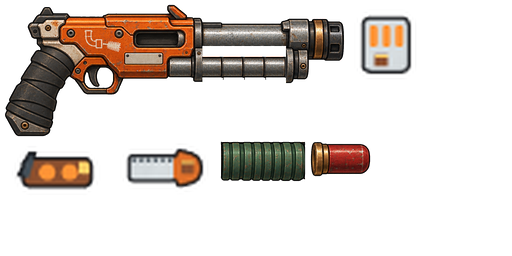
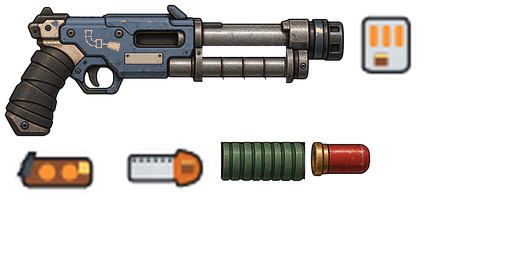
Recolour the Boom Broom's receiver to graphite
The painted receiver's maintenance orange vanished into Dave's
burnt-orange jacket in play. The importer gains a generic recolor step
(hue range, target hue, saturation and value scale per part) and the
Boom Broom's body uses it, so a re-import keeps the change; the upgrade
parts keep their orange as accents. The brief records the change.

diff --git a/game/tools/art/import_parts_sheet.py b/game/tools/art/import_parts_sheet.py
@@ -705,8 +705,8 @@ SHEETS = {
     # px from the grip (33 in game at ART_SCALE 0.9), so the gun is ~43 px long, not the stocked
     # placeholder's ~57. The sheet has no upgrade parts: `keep` carries the placeholder's
     # ext_tube, heat_collar and twin_pod over (painted at 3 texels per world px) onto the tube's
-    # front bracket, the bare barrel and the receiver's top. The HUD icon still comes from the
-    # placeholder (paint_boom_broom.py write_icons()).
+    # front bracket, the bare barrel and the receiver's top. The HUD icon is the
+    # painted one (import_hd_ui.py, from the l2-hud sheet).
     "boom_broom_hd": {
         "out": "boom_broom",
         "builder": "assembly",
@@ -727,6 +727,10 @@ SHEETS = {
             "pump": {"at": (1000, 640), "box": (886, 546, 1252, 722), "pivot": (888, 632)},
             "shell": {"at": (1200, 190), "pivot": (1197, 189)},
         },
+        # The receiver's maintenance orange sat on Dave's orange jacket and the gun vanished
+        # into him: its orange becomes graphite blue (the barrel stays steel, the upgrade parts
+        # keep their orange as accents). 2026-10-13.
+        "recolor": {"body": {"hue": (6, 48), "min_sat": 0.45, "to_hue": 212, "sat": 0.30, "val": 0.60}},
         "joints": [
             {"name": "body", "part": "body", "parent": "", "place": (222, 685), "z": 1, "mass": 3.0, "role": "frame"},
             {"name": "shell", "part": "shell", "parent": "body", "place": (700, 512), "z": 0, "mass": 0.05, "role": "shell"},
@@ -2589,6 +2593,41 @@ def assembly_part(sheet, src, lab, pc):
     return fitted, piv, fwd, fmasks
 
 
+def recolor(rgb, alpha, rc):
+    """`rgb` (floats 0..1, H x W x 3) with the pixels whose hue lies in `rc["hue"]` (degrees,
+    (lo, hi)) and whose saturation is at least `rc["min_sat"]` moved to hue `rc["to_hue"]`, their
+    saturation and value scaled by `rc["sat"]` and `rc["val"]`. The shading, the scratches and
+    the edges stay (only the colour moves). Used where a painted colour has to change after
+    the fact (an `assembly` entry's `recolor`: {part: rc}), so a re-import keeps the change."""
+    r, g, b = rgb[..., 0], rgb[..., 1], rgb[..., 2]
+    mx = rgb.max(-1)
+    mn = rgb.min(-1)
+    d = mx - mn
+    sat = np.where(mx > 1e-5, d / np.maximum(mx, 1e-5), 0.0)
+    h = np.zeros_like(mx)
+    dd = np.maximum(d, 1e-5)
+    h = np.where(mx == r, ((g - b) / dd) % 6.0, h)
+    h = np.where(mx == g, (b - r) / dd + 2.0, h)
+    h = np.where(mx == b, (r - g) / dd + 4.0, h)
+    h = np.where(d > 1e-5, h * 60.0, 0.0)
+    lo, hi = rc["hue"]
+    m = (h >= lo) & (h <= hi) & (sat >= rc.get("min_sat", 0.4)) & (alpha > 0.0)
+    nh = np.where(m, rc["to_hue"], h) / 60.0
+    ns = np.where(m, np.clip(sat * rc.get("sat", 1.0), 0.0, 1.0), sat)
+    nv = np.where(m, np.clip(mx * rc.get("val", 1.0), 0.0, 1.0), mx)
+    # HSV -> RGB
+    c = nv * ns
+    x = c * (1.0 - np.abs(nh % 2.0 - 1.0))
+    mm = nv - c
+    i = np.floor(nh).astype(int) % 6
+    zero = np.zeros_like(c)
+    rr = np.choose(i, [c, x, zero, zero, x, c])
+    gg = np.choose(i, [x, c, c, x, zero, zero])
+    bb = np.choose(i, [zero, zero, x, c, c, x])
+    out = np.stack([rr + mm, gg + mm, bb + mm], -1)
+    return np.where(m[..., None], out, rgb)
+
+
 def build_assembly(name, cfg):
     """A jointed assembly from a smooth (hand-painted HD) sheet: the Level 2 rigs (C61), a
     machine (the M02 drone), a prop (the EG01 pistol, the W02 Boom Broom) or a quadruped (the
@@ -2634,6 +2673,9 @@ def build_assembly(name, cfg):
         if "emit" in masks:
             em = resize(np.repeat(masks["emit"][..., None], 3, -1), res["alpha"].shape[::-1])[..., 0] > 0.5
             res["spec"][em & (res["alpha"] > 0.5), 2] = float(pc.get("emit_strength", 1.0))
+        rc = cfg.get("recolor", {}).get(pname)
+        if rc:
+            res["rgb"] = recolor(res["rgb"], res["alpha"], rc)
         results[pname] = res
     keep = cfg.get("keep")
     kept_joints = []

diff --git a/art-design/weapons/w02-boom-broom.md b/art-design/weapons/w02-boom-broom.md
@@ -29,7 +29,7 @@ The upper barrel is a reclaimed length of galvanized coolant-pipe casing with a 
 
 ## Color and materials
 
-Maintenance orange #E0702A; galvanized pipe gray #AEB9BF; coolant green #3E9E7E; dark steel #444F58; shell red #C8503C; brass rims #C9A24D. Upgrade accents: ember orange #FF9436 for heat glows, pale ceramic gray #D6DCDF for the heat collar, heat-scorched bronze #8C4F2E for the insulated receiver panel, and thin microchip-gold #FFD166 contact edges on modules. Wear is concentrated on the muzzle collar, pump edges and stock pad.
+**In the game (2026-10-13) the receiver is graphite blue-grey, not orange:** in play the orange receiver vanished into Dave's burnt-orange jacket, so `import_parts_sheet.py`'s `recolor` shifts the painted receiver's orange to graphite (hue 212, a third of the saturation, 60% brightness) and keeps the shading; the upgrade parts keep the orange as accents. Palette as first briefed: maintenance orange #E0702A; galvanized pipe gray #AEB9BF; coolant green #3E9E7E; dark steel #444F58; shell red #C8503C; brass rims #C9A24D. Upgrade accents: ember orange #FF9436 for heat glows, pale ceramic gray #D6DCDF for the heat collar, heat-scorched bronze #8C4F2E for the insulated receiver panel, and thin microchip-gold #FFD166 contact edges on modules. Wear is concentrated on the muzzle collar, pump edges and stock pad.
 
 Dark-scene readability: the pale barrel and the coolant-green pump carry the silhouette against near-black scenery, with the engine's lamp light picking out the barrel top (no rim light is painted). Dave's burnt-orange jacket is close to the receiver's orange, so keep a heavy dark outline around the receiver and let the pale barrel and green pump provide the contrast. The shells stay matte and opaque, never glowing red, so they cannot be mistaken for alarm-red attack tells; heat glows use ember orange, never alarm red or hazard amber.
 
